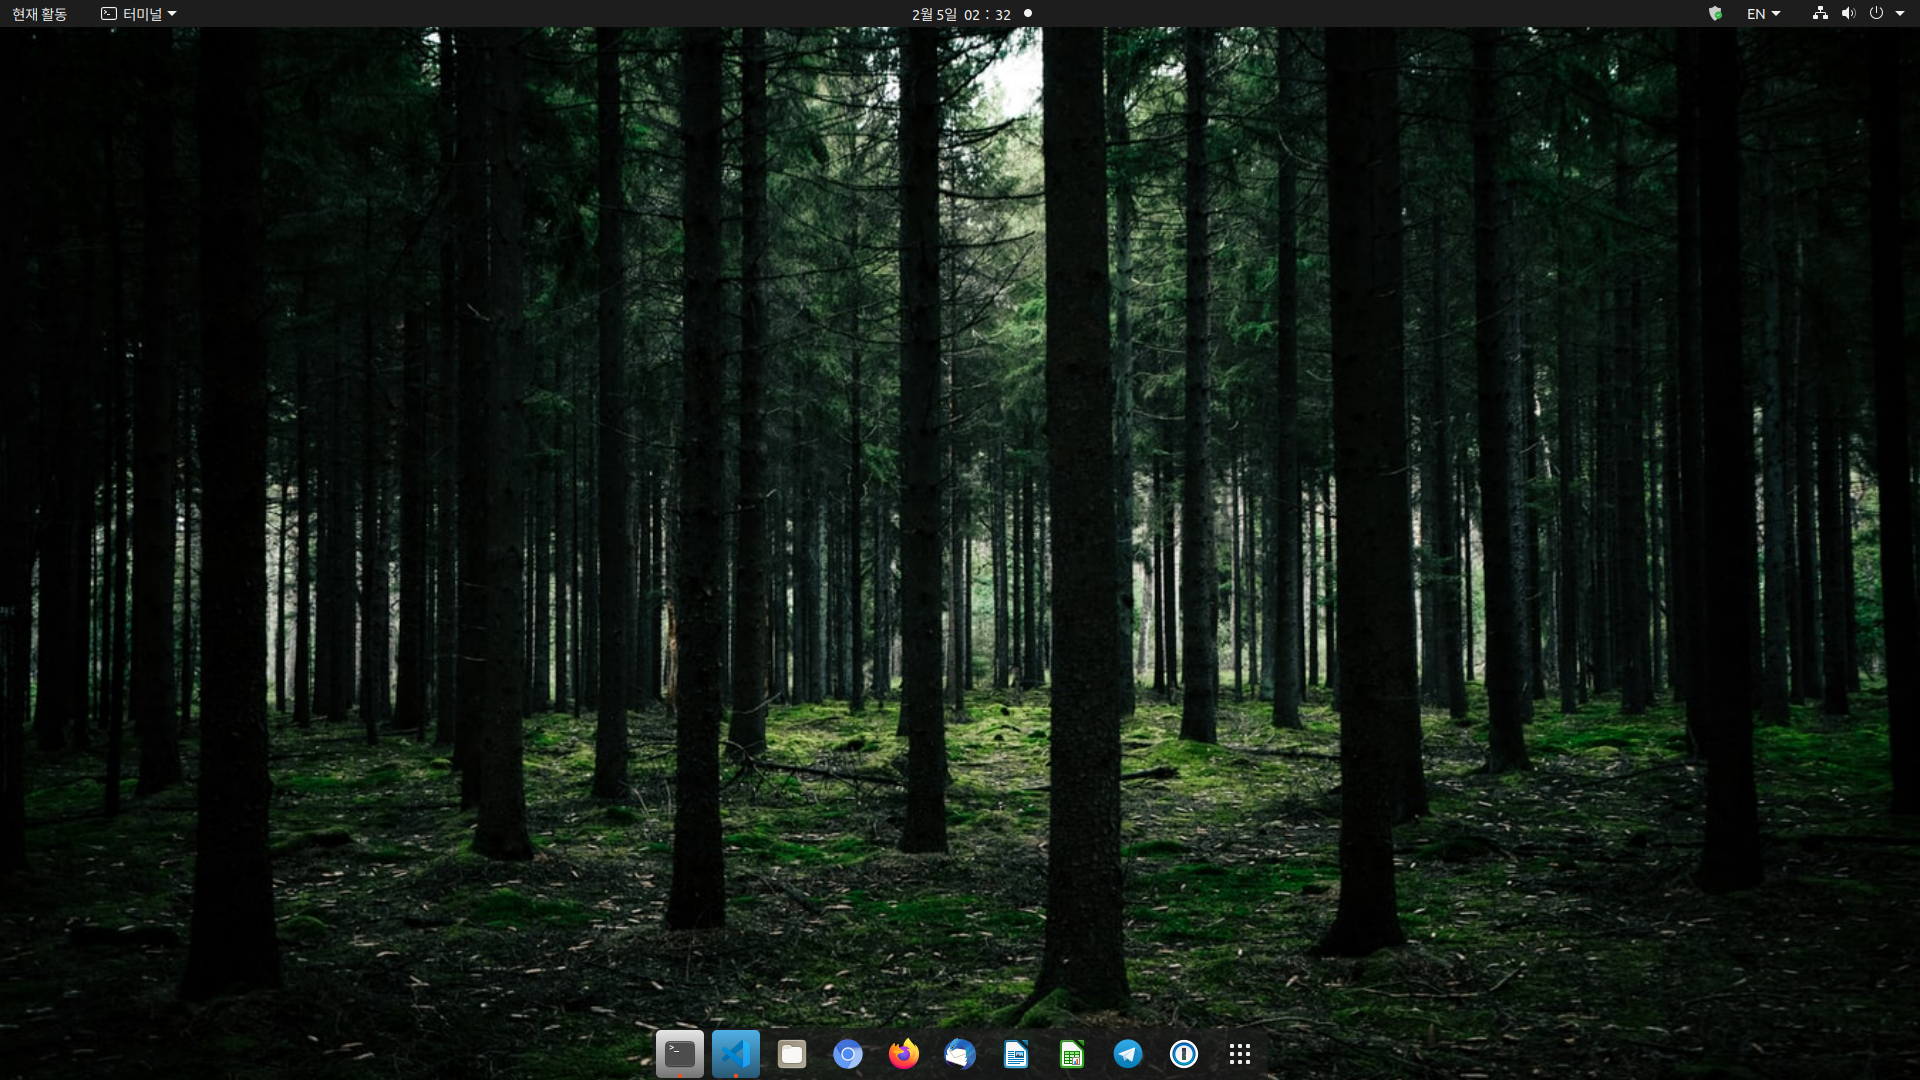
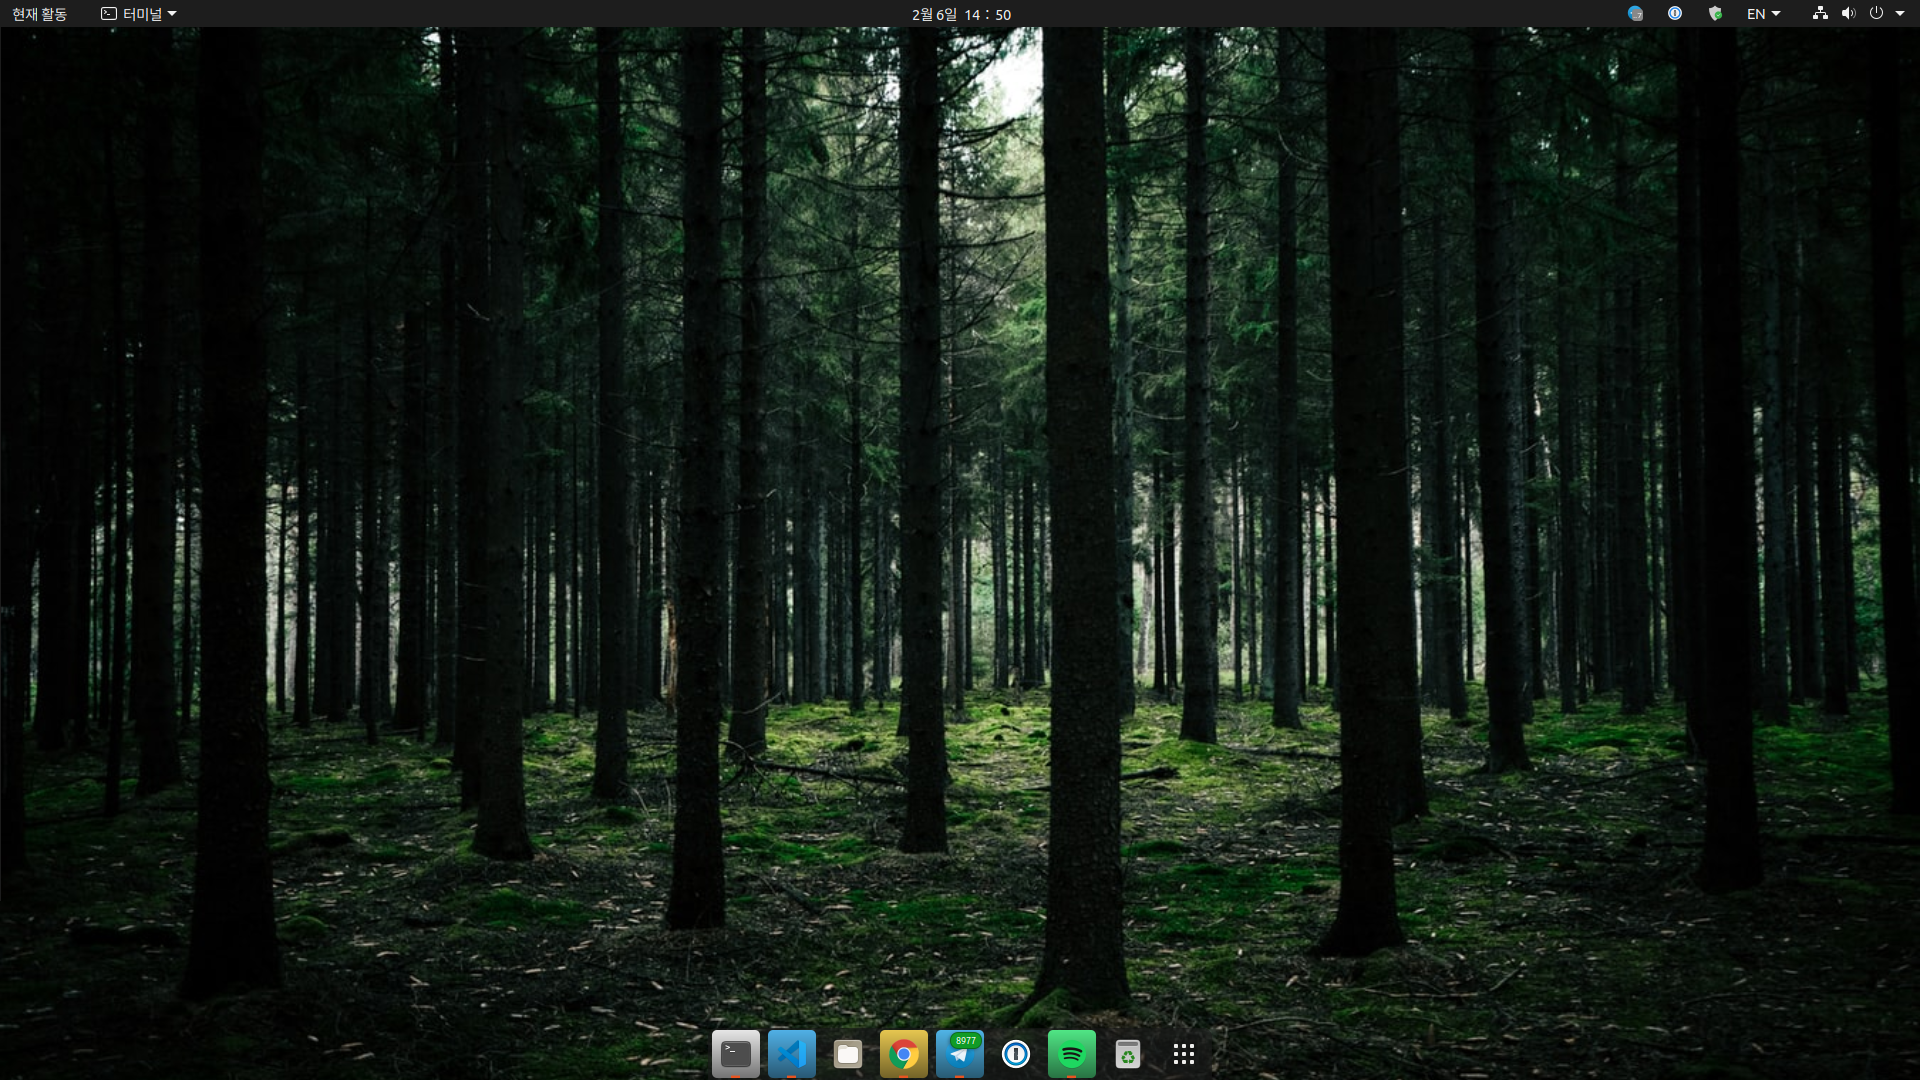
Update ubuntu-desktop-customize

Changed region(s): [[0.3438, 0.9472, 0.625, 1.0], [0.8438, 0.0, 0.875, 0.0306], [0.5, 0.0, 0.5312, 0.0306]]

diff --git a/_til/ubuntu-desktop/customize.md b/_til/ubuntu-desktop/customize.md
@@ -1,19 +1,65 @@
 # 나만의 우분투 데스크탑 설정
 
-1. Background
+```bash
+cat /etc/debian_verison
+# bullseye/sid
+```
+
+## 그래픽 카드 드라이버
+
+```bash
+nvidia-detector
+# nvidia-driver-460
+sudo lshw -C display
+# *-display
+```
+
+```bash
+sudo apt install -y nvidia-driver-460
+sudo apt install -y nvidia-utils-460
+reboot
+```
+
+```bash
+watch -d -n 1 nvidia-smi
+
++-----------------------------------------------------------------------------+
+| NVIDIA-SMI 460.32.03    Driver Version: 460.32.03    CUDA Version: 11.2     |
+|-------------------------------+----------------------+----------------------+
+| GPU  Name        Persistence-M| Bus-Id        Disp.A | Volatile Uncorr. ECC |
+| Fan  Temp  Perf  Pwr:Usage/Cap|         Memory-Usage | GPU-Util  Compute M. |
+|                               |                      |               MIG M. |
+|===============================+======================+======================|
+|   0  GeForce GTX 1660    Off  | 00000000:09:00.0  On |                  N/A |
+| 46%   31C    P8     8W / 130W |    215MiB /  5936MiB |      3%      Default |
+|                               |                      |                  N/A |
++-------------------------------+----------------------+----------------------+
+
++-----------------------------------------------------------------------------+
+| Processes:                                                                  |
+|  GPU   GI   CI        PID   Type   Process name                  GPU Memory |
+|        ID   ID                                                   Usage      |
+|=============================================================================|
+|    0   N/A  N/A       999      G   /usr/lib/xorg/Xorg                 53MiB |
+|    0   N/A  N/A      2178      G   /usr/lib/xorg/Xorg                 96MiB |
+|    0   N/A  N/A      2477      G   /usr/bin/gnome-shell               54MiB |
++-----------------------------------------------------------------------------+
+```
+
+## Background
 
 - https://unsplash.com/photos/k5Vj3gx4vHE
 
-2. terminal 투명도 설정
+## terminal 투명도 설정
 
 ![terminal-transparent](../static/images/terminal-transparent.png)
 
-3. VS Code 설치
+## VS Code 설치
 
 > https://gist.github.com/philoskim/a79440bd51ae40f04a4d7cafa472caf1
 
-snap으로 설치할 경우 한글이 입력되지 않는다.
-Slack 등 다른 애플리케이션도 snap으로 설치하면 마찬가지로 한영 전환(`Shift`+`Space`)이 안 된다.
+snap으로 설치할 경우 한글이 입력되지 않습니다.
+Slack 등 다른 애플리케이션도 snap으로 설치하면 마찬가지로 한영 전환(`Shift`+`Space`)이 안 됩니다.
 (저는 Slack을 우분투 소프트웨어 센터에서 설치했는데 snap을 통해 설치되나 보네요)
 
 ![remove-slack](../static/images/remove-slack.png)
@@ -35,7 +81,7 @@ sudo dpkg -i code_1.52.1-1608136922_amd64.deb
 # sudo dpkg -r code
 ```
 
-4. command auto suggestion (not fuzzy suggestion)
+## command auto suggestion (not fuzzy suggestion)
 
 - fish: 자체 제공
 
@@ -73,7 +119,7 @@ cat /etc/passwd | grep `cd; pwd`
 sudo apt-get install zsh
 ```
 
-5. vim
+## vim
 
 ```bash
 sudo apt-get install vim
@@ -81,7 +127,7 @@ sudo apt-get install vim
 
 - [$HOME/.vimrc](./.vimrc)
 
-6. tmux
+## tmux
 
 ```bash
 sudo apt-get install tmux
@@ -89,26 +135,198 @@ sudo apt-get install tmux
 
 - [$HOME/.tmux.conf](./.tmux.conf)
 
-7. dock
+## dock
+
+- [options](https://github.com/micheleg/dash-to-dock/blob/master/schemas/org.gnome.shell.extensions.dash-to-dock.gschema.xml)
 
 ```bash
-gsettings set org.gnome.shell.extensions.dash-to-dock extend-height false
 gsettings set org.gnome.shell.extensions.dash-to-dock dock-position BOTTOM
-gsettings set org.gnome.shell.extensions.dash-to-dock transparency-mode FIXED
-gsettings set org.gnome.shell.extensions.dash-to-dock dash-max-icon-size 32
-gsettings set org.gnome.shell.extensions.dash-to-dock unity-backlit-items true
+gsettings set org.gnome.shell.extensions.dash-to-dock animation-time 0.2
+gsettings set org.gnome.shell.extensions.dash-to-dock transparency-mode FIXED # 투명도 모드
+gsettings set org.gnome.shell.extensions.dash-to-dock background-opacity 0.6 # 배경 투명도
+gsettings set org.gnome.shell.extensions.dash-to-dock running-indicator-style DASHES # 실행 중인 앱 표시 형태
+gsettings set org.gnome.shell.extensions.dash-to-dock intellihide-mode FOCUS_APPLICATION_WINDOWS
+gsettings set org.gnome.shell.extensions.dash-to-dock dash-max-icon-size 32 # 범위: 16-64
+gsettings set org.gnome.shell.extensions.dash-to-dock extend-height false # 화면에 아이콘이 꽉 차지 않을 때 여백을 두지 않음
+gsettings set org.gnome.shell.extensions.dash-to-dock show-windows-preview true
+gsettings set org.gnome.shell.extensions.dash-to-dock show-favorites true
+gsettings set org.gnome.shell.extensions.dash-to-dock show-trash true
+gsettings set org.gnome.shell.extensions.dash-to-dock show-mounts true
+gsettings set org.gnome.shell.extensions.dash-to-dock multi-monitor true # 모니터가 여러 개일 때 어느 모니터에서든 dock을 볼 수 있음
+gsettings set org.gnome.shell.extensions.dash-to-dock scroll-action cycle-windows # 아이콘 위에서 마우스 스크롤하면 여러 윈도우를 이동할 수 있음
+gsettings set org.gnome.shell.extensions.dash-to-dock hot-keys true # `super`+`num`
+gsettings set org.gnome.shell.extensions.dash-to-dock hotkeys-show-dock true
+gsettings set org.gnome.shell.extensions.dash-to-dock force-straight-corner false
+```
+
+- 초기화하기 위해서는 아래 명령어를 사용합니다.
+
+```bash
+dconf reset -f /org/gnome/shell/extensions/dash-to-dock/
 ```
 
 ![bottom-dock](../static/images/bottom-dock.png)
 
-- dock에 있는 앱들을 `Super`+`숫자` 조합으로 선택할 수 있다.
+- dock에 있는 앱들을 `Super`+`숫자` 조합으로 선택할 수 있습니다.
 
-8. GNOME Shell Extensions
+## Ubuntu login loop
+
+저의 경우 위와 같이 `gsettings`를 건드리면 부팅 시 계정을 생성하는 페이지만 나왔습니다.
+[스택오버플로우](https://askubuntu.com/questions/1277793/ubuntu-20-04-always-forces-me-to-create-a-new-user-at-boot/)에 의하면
+GDM3나 그래픽 드라이버 문제일 수 있습니다. 만약 저와 같은 일이 반복되신다면 아래를 참고해주세요.
+
+- 우선 계정 생성 페이지에서는 터미널을 열 수 없기 때문에: `Ctrl`+`Alt`+`t`
+- 다른 가상 터미널(Virtual Terminal)에 접근합니다: `Ctrl`+`Alt`+`f1-f6` or `Alt`+`left|right`
+
+```bash
+sudo vi /etc/xdg/autostart/gnome-initial-setup-first-login.desktop
+# 아래와 같은 라인을 주석 처리합니다.
+Exec=/usr/libexec/gnome-initial-setup --existing-user
+```
+
+- 확실히 하기 위해 패키지까지 제거 후 gdm3 구성 정보를 추가합니다.
+
+```bash
+sudo apt remove gnome-initial-setup
+```
+
+```bash
+vi /etc/gdm3/custom.conf
+
+# [daemon]
+# InitialSetupEnable=False
+```
+
+## GNOME Shell Extensions
 
 - 도움되는 확장 기능
 
-0. 블로깅을 위한 hugo 다운로드
+## NordVPN 설치
+
+- [매뉴얼](https://support.nordvpn.com/Connectivity/Linux/1325531132/Installing-and-using-NordVPN-on-Debian-Ubuntu-Elementary-OS-and-Linux-Mint.htm)
+
+```bash
+cd /tmp
+curl -LSf https://downloads.nordcdn.com/apps/linux/install.sh -o nordvpn.sh
+chmod +x nordvpn.sh
+./nordvpn.sh
+
+# ...
+# NordVPN for Linux successfully installed!
+# To get started, please re-login or execute `su - $USER` in the current shell, type 'nordvpn login' and enter your NordVPN account details. Then type 'nordvpn connect' and you’re all set! To allow other users to use the application run 'usermod -aG nordvpn otheruser'. If you need help using the app, use the command 'nordvpn --help'.
+```
+
+```bash
+sudo nordvpn help
+
+sudo nordvpn login
+# sudo nordvpn logout
+sudo nordvpn countries
+sudo nordvpn cities united_states
+
+sudo nordvpn c # connect
+sudo nordvpn c us # united_states
+sudo nordvpn d # disconnect
+
+sudo nordvpn set technology # Set connection technology (OpenVPN or NordLynx)
+sudo nordvpn set protocol udp # [tcp, udp]
+sudo nordvpn set killswitch on
+sudo nordvpn set cybersec on
+sudo nordvpn set notify on
+sudo nordvpn set obfuscate on
+sudo nordvpn set autoconnect on
+sudo nordvpn settings
+
+sudo nordvpn status
+sudo nordvpn rate # Rate your last connection quality (1-5)
+```
+
+## 안전한 브라우징을 위한 Tor 브라우저 설치
+
+- TOR (The Onion Route)
+- https://www.torproject.org/download/
+
+```bash
+wget https://www.torproject.org/dist/torbrowser/10.0.10/tor-browser-linux64-10.0.10_en-US.tar.xz \
+--directory-prefix=/tmp
+
+mkdir -p /tmp/tor
+tar xvf /tmp/tor-browser-linux64-10.0.10_en-US.tar.xz -C /tmp/tor --strip-components=1
+cd /tmp/tor/
+./start-tor-browser.desktop --register-app
+```
+
+- `Super`를 눌러 애플리케이션 검색('tor') 후 실행합니다.
+
+![gnome-activities-search-tor](../static/images/gnome-activities-search-tor.png)
+
+## 무료로 음악을 들을 수 있는 Spotify
+
+- https://www.spotify.com/us/download/linux/
+
+## 블로깅을 위한 hugo 다운로드
 
 ```bash
 sudo apt-get install hugo
+```
+
+## 윈도우 앱을 위한 `Wine`
+
+- https://www.winehq.org/
+- https://wine.htmlvalidator.com/install-wine-on-ubuntu-20.04.html
+
+```bash
+dpkg --print-architecture
+# amd64
+dpkg --print-foreign-architectures
+# i386
+# 만약 "i386"이 출력되지 않는다면 추가해줍니다.
+sudo dpkg --add-architecture i386
+```
+
+```bash
+# cd /tmp
+# wget -nc https://dl.winehq.org/wine-builds/winehq.key
+# sudo apt-key add winehq.key
+# OK
+# sudo add-apt-repository 'deb https://dl.winehq.org/wine-builds/ubuntu/ focal main'
+# sudo apt update
+# sudo apt install --install-recommends winehq-stable
+```
+
+```bash
+sudo apt install wine
+sudo apt list --installed | less
+sudo apt list --installed | grep -i wine
+apt show wine
+
+wine --version
+# wine-6.0
+```
+
+```bash
+winecfg
+wine
+
+wget https://raw.githubusercontent.com/Winetricks/winetricks/master/src/winetricks
+chmod +x winetricks
+./winetricks --optout
+# Install a Windows DLL or component 선택
+```
+
+## 가상 머신 관리 도구 Virtual Box
+
+```bash
+sudo apt install -y virtualbox
+```
+
+## provisioning 도구 Vagrant
+
+- https://www.vagrantup.com/downloads
+
+```bash
+cd /tmp
+wget https://releases.hashicorp.com/vagrant/2.2.14/vagrant_2.2.14_x86_64.deb
+sudo apt install ./vagrant_2.2.14_x86_64.deb
+vagrant --version
 ```
